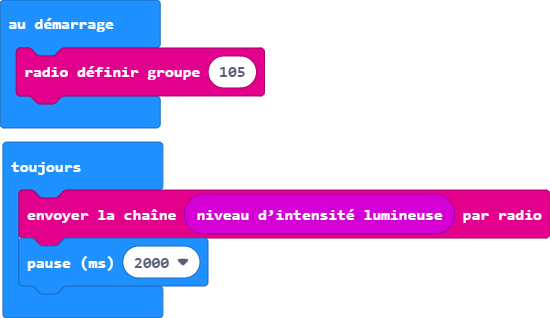
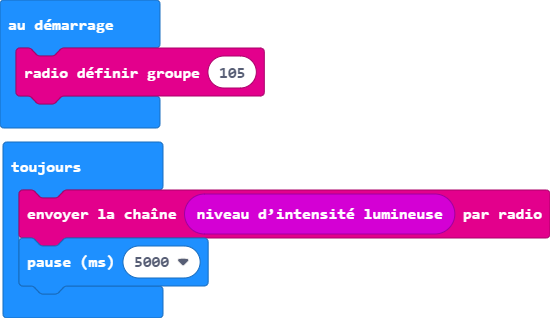
Mise à jour main.blocks, main.ts

diff --git a/main.ts b/main.ts
@@ -1,5 +1,5 @@
 radio.setGroup(105)
 basic.forever(function () {
     radio.sendString("" + (input.lightLevel()))
-    basic.pause(2000)
+    basic.pause(5000)
 })
